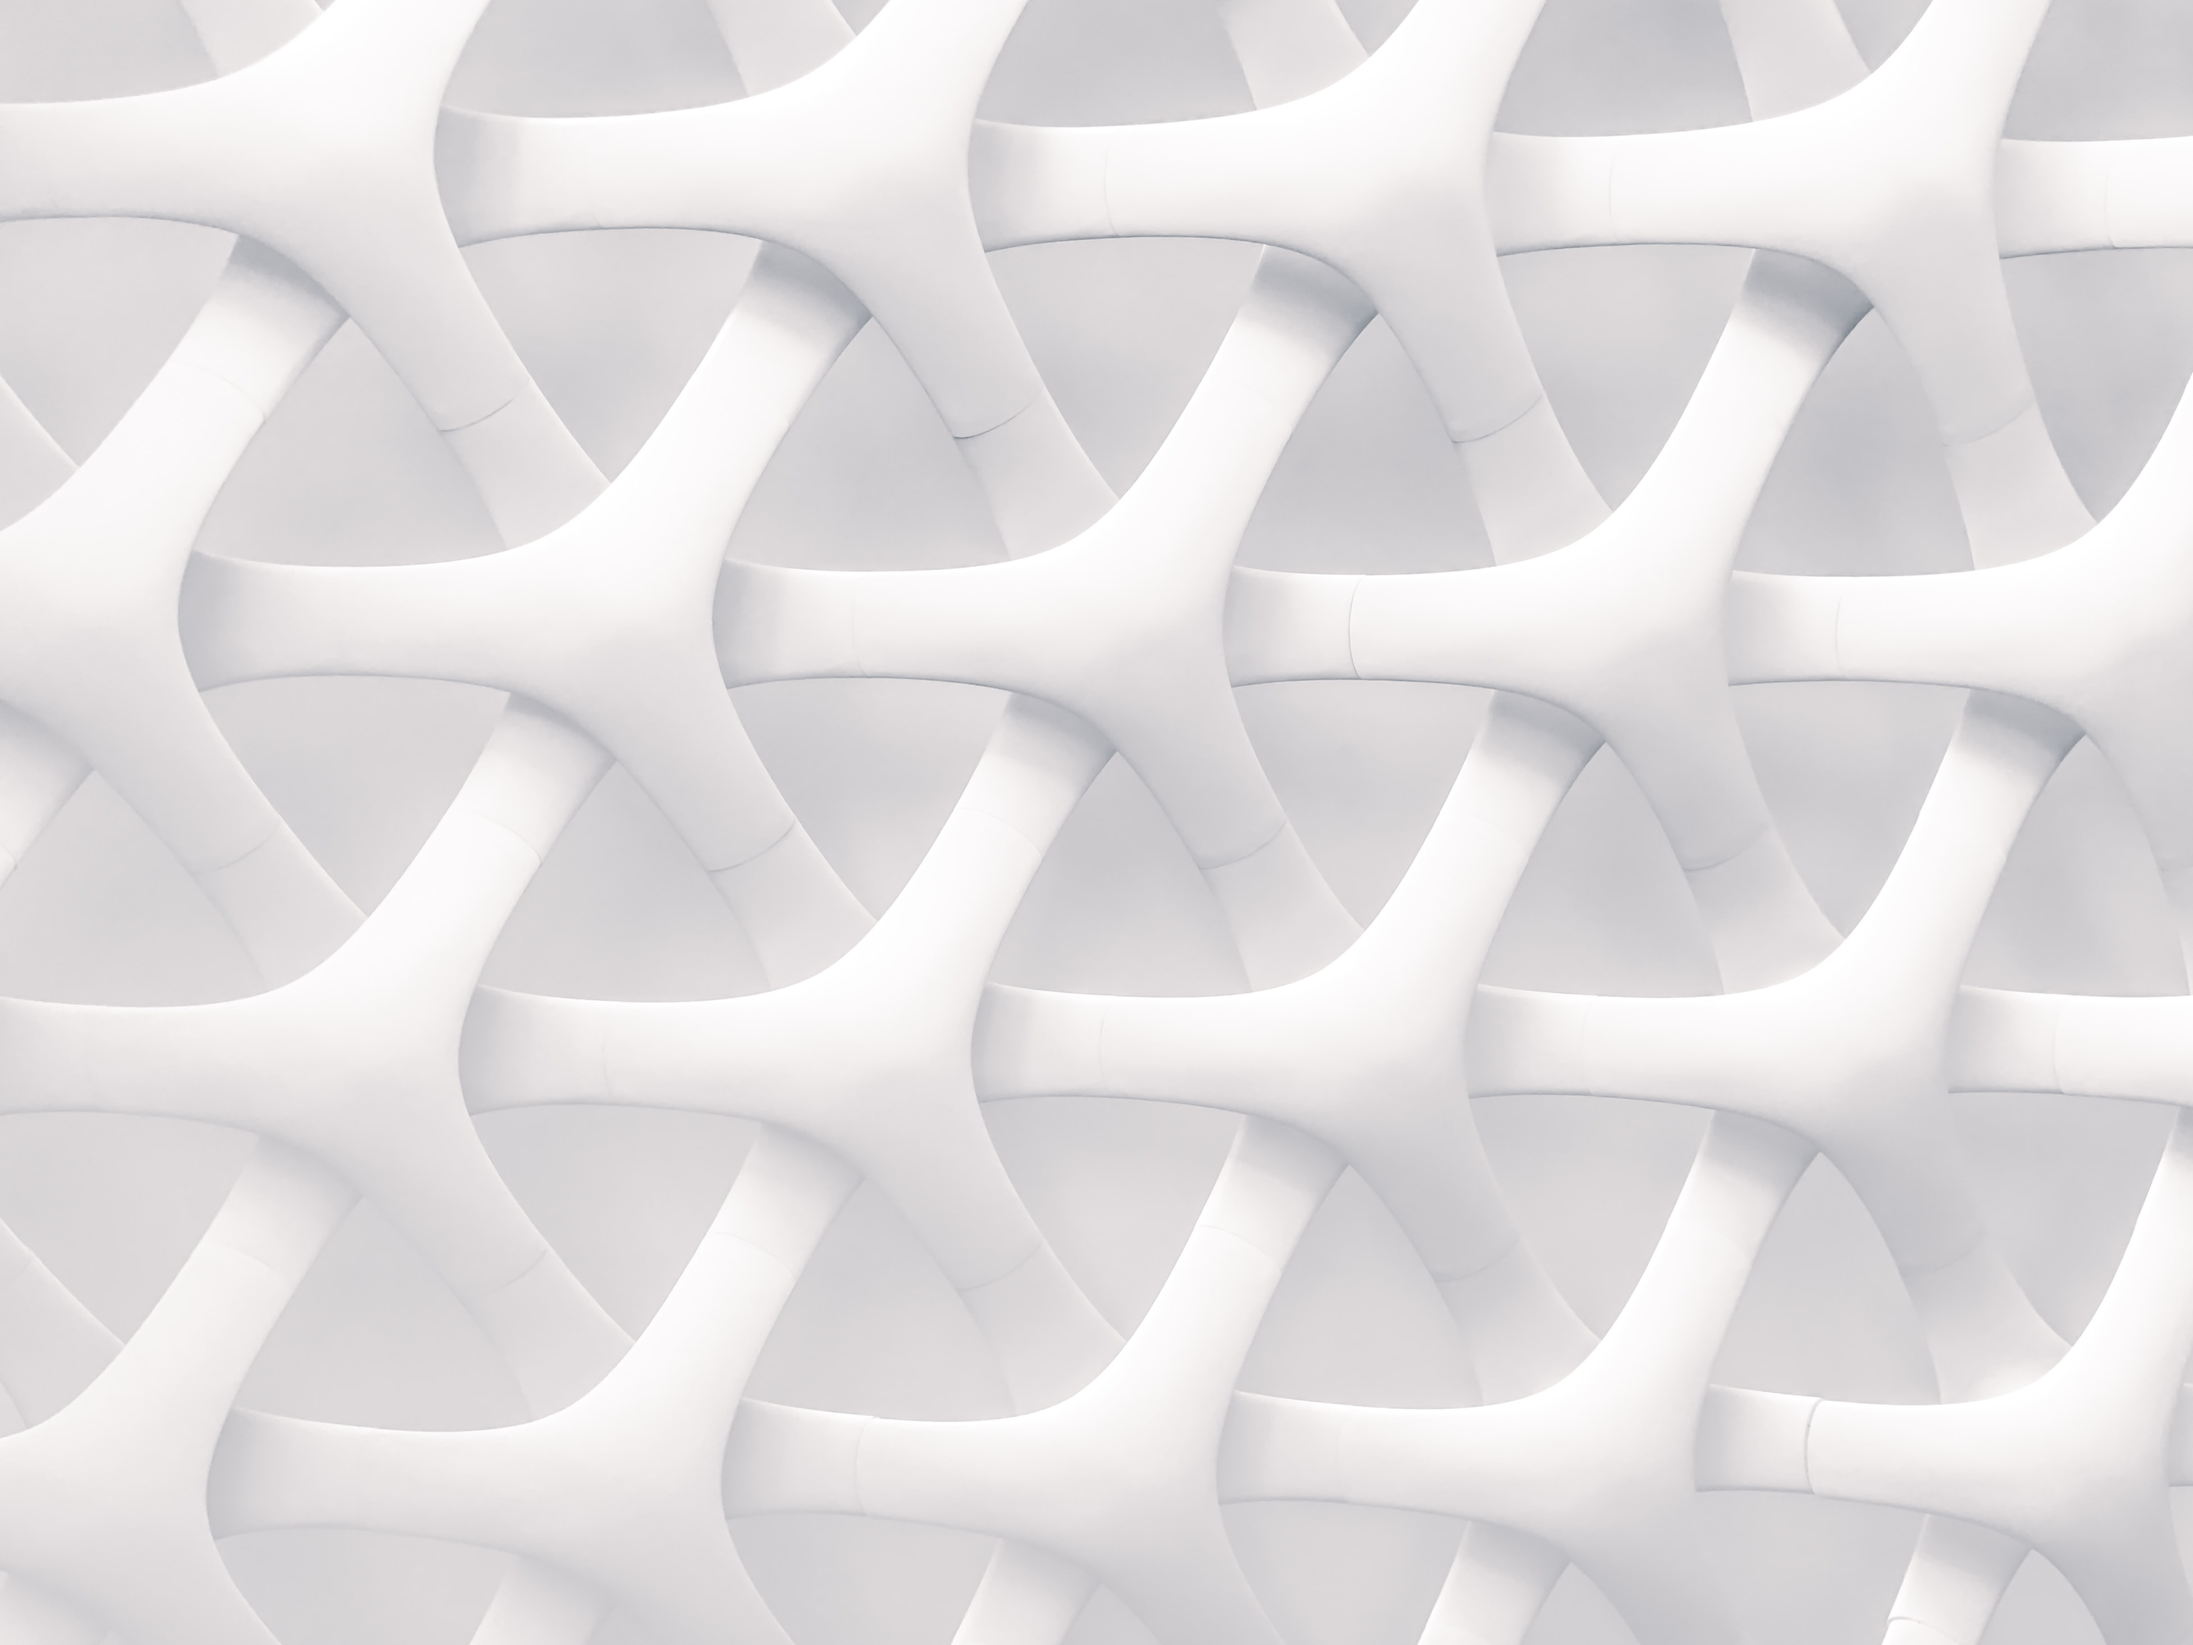
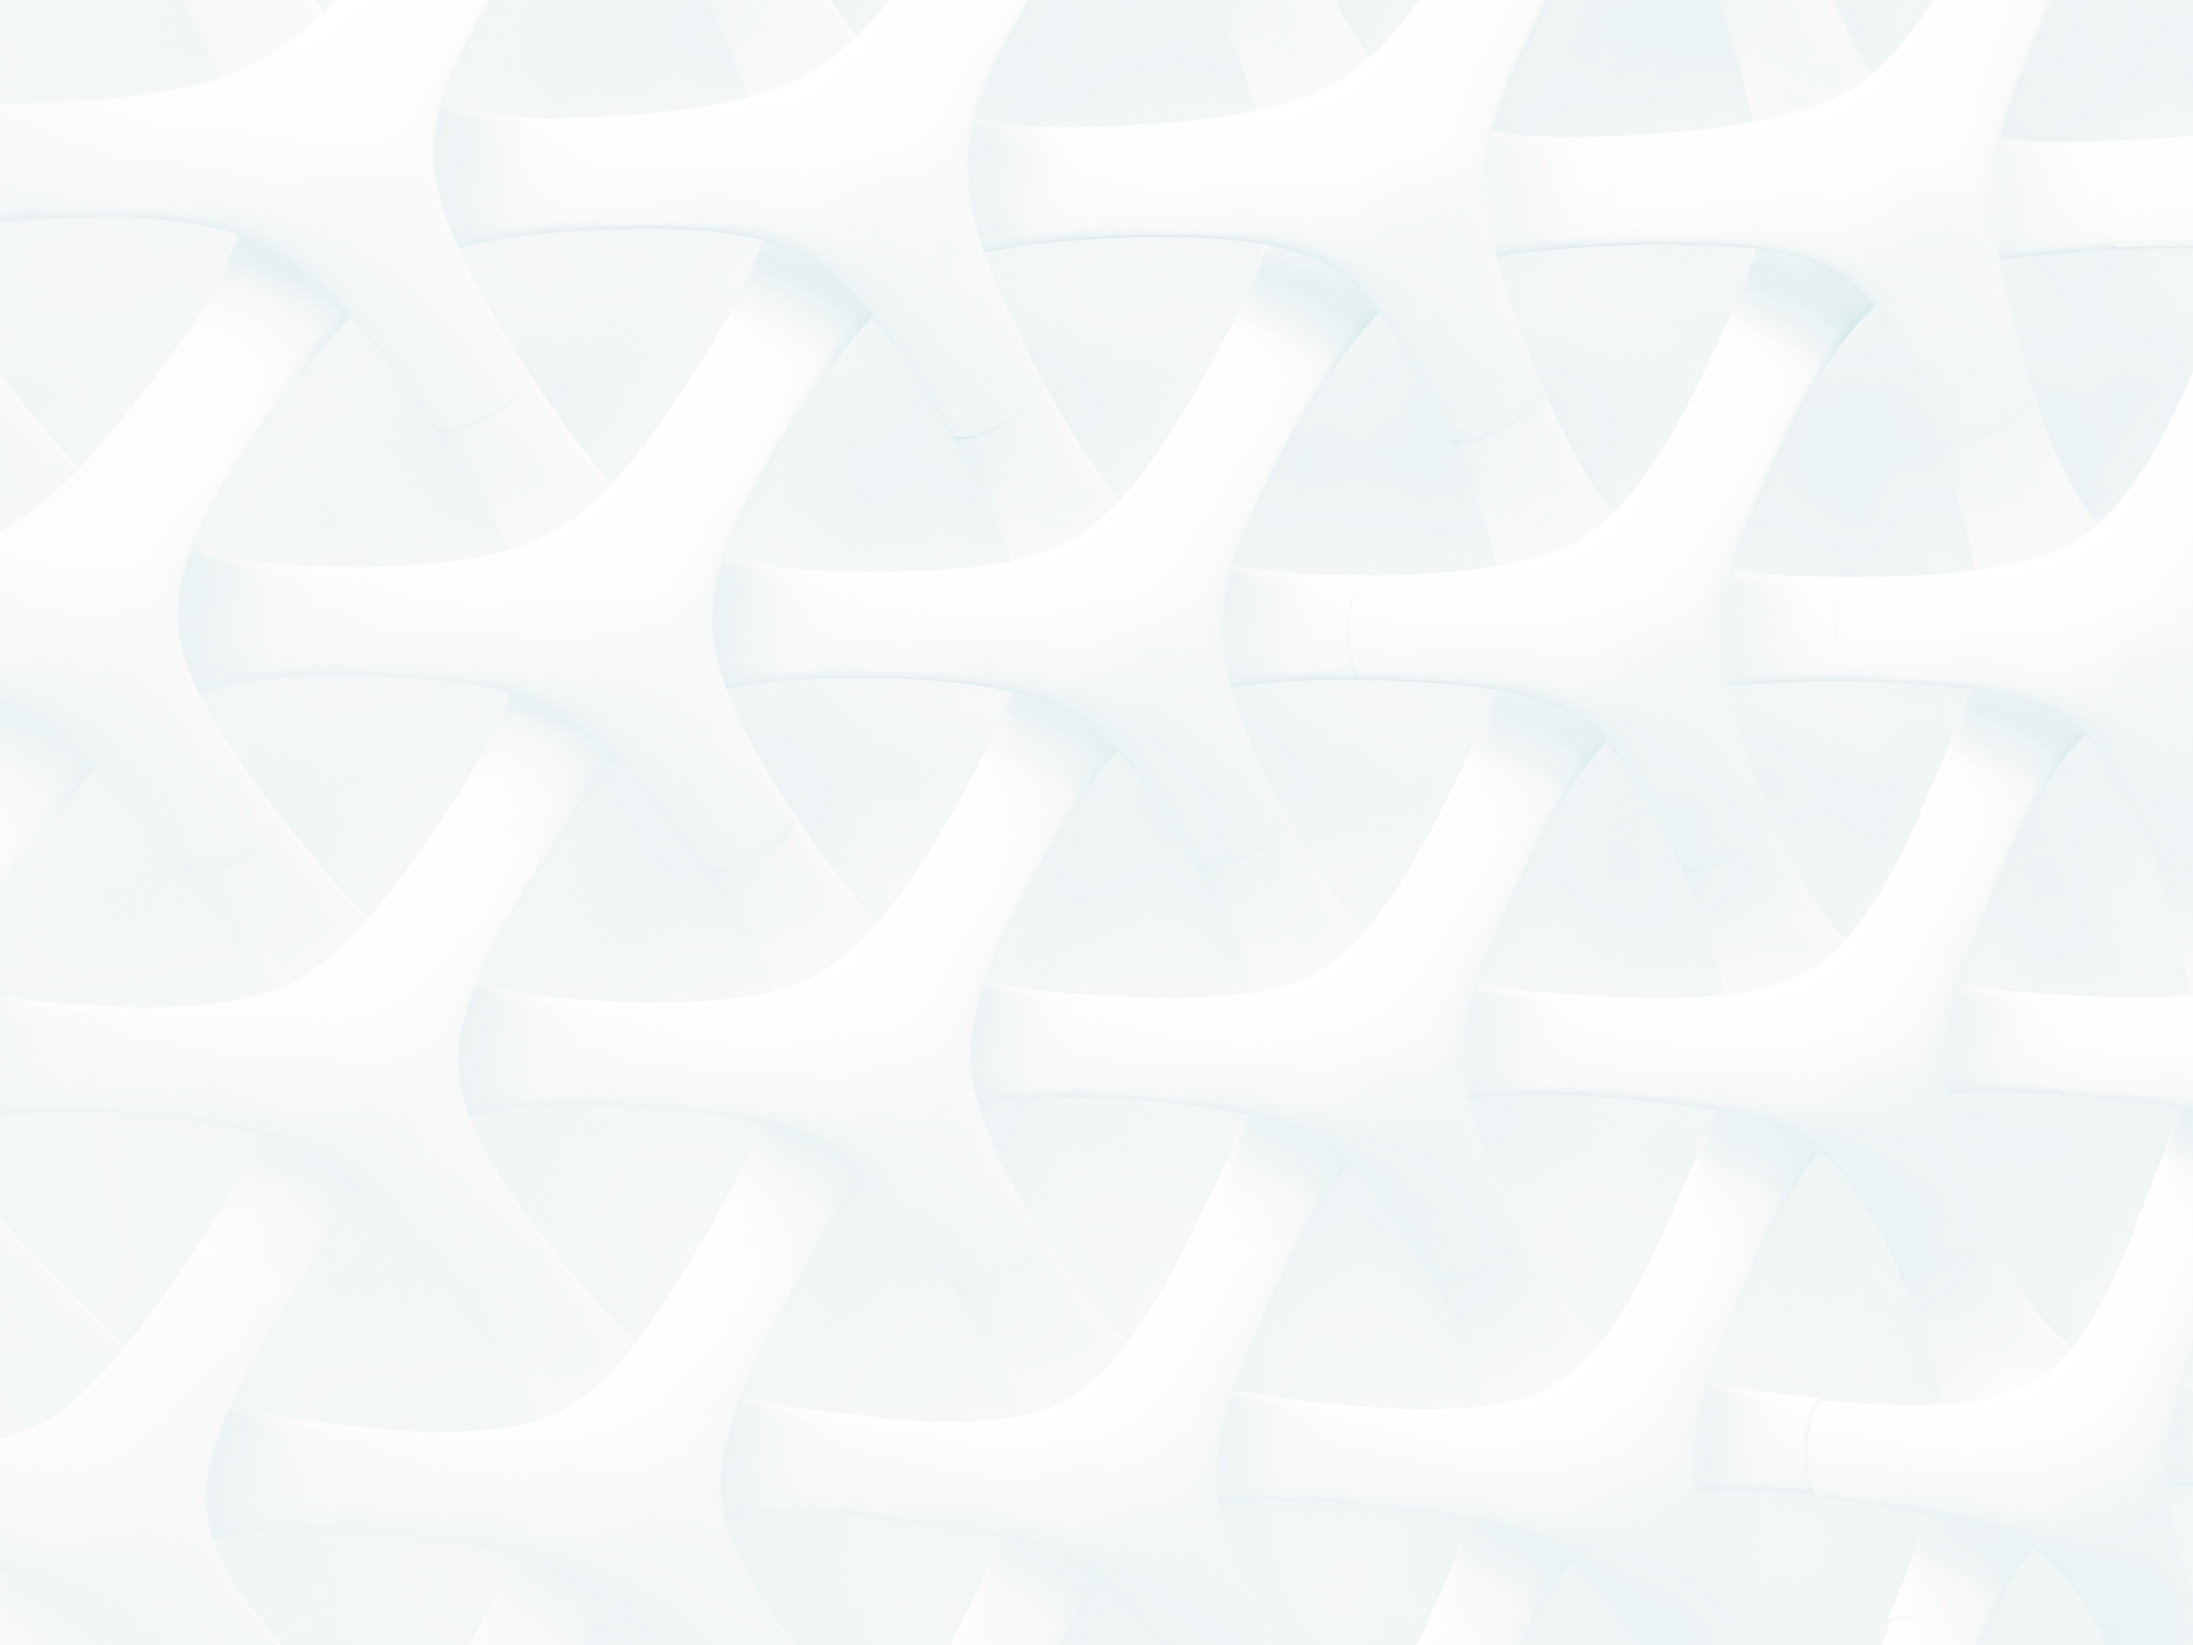
Updated hero image and css file

diff --git a/src/stylesheet.css b/src/stylesheet.css
@@ -39,11 +39,9 @@ footer > p {
 }
 
 .section-intro {
-  background-image: url("../media/intro-bg.jpg"),
-    radial-gradient(#eaf1f1, #91bdbd);
-  background-blend-mode: screen;
+  background-image: url("../media/intro-bg.jpg");
   background-size: cover;
-  /* background-attachment: fixed; */
+  background-attachment: fixed;
   padding: 10%;
   color: #2f4f4f;
 }
